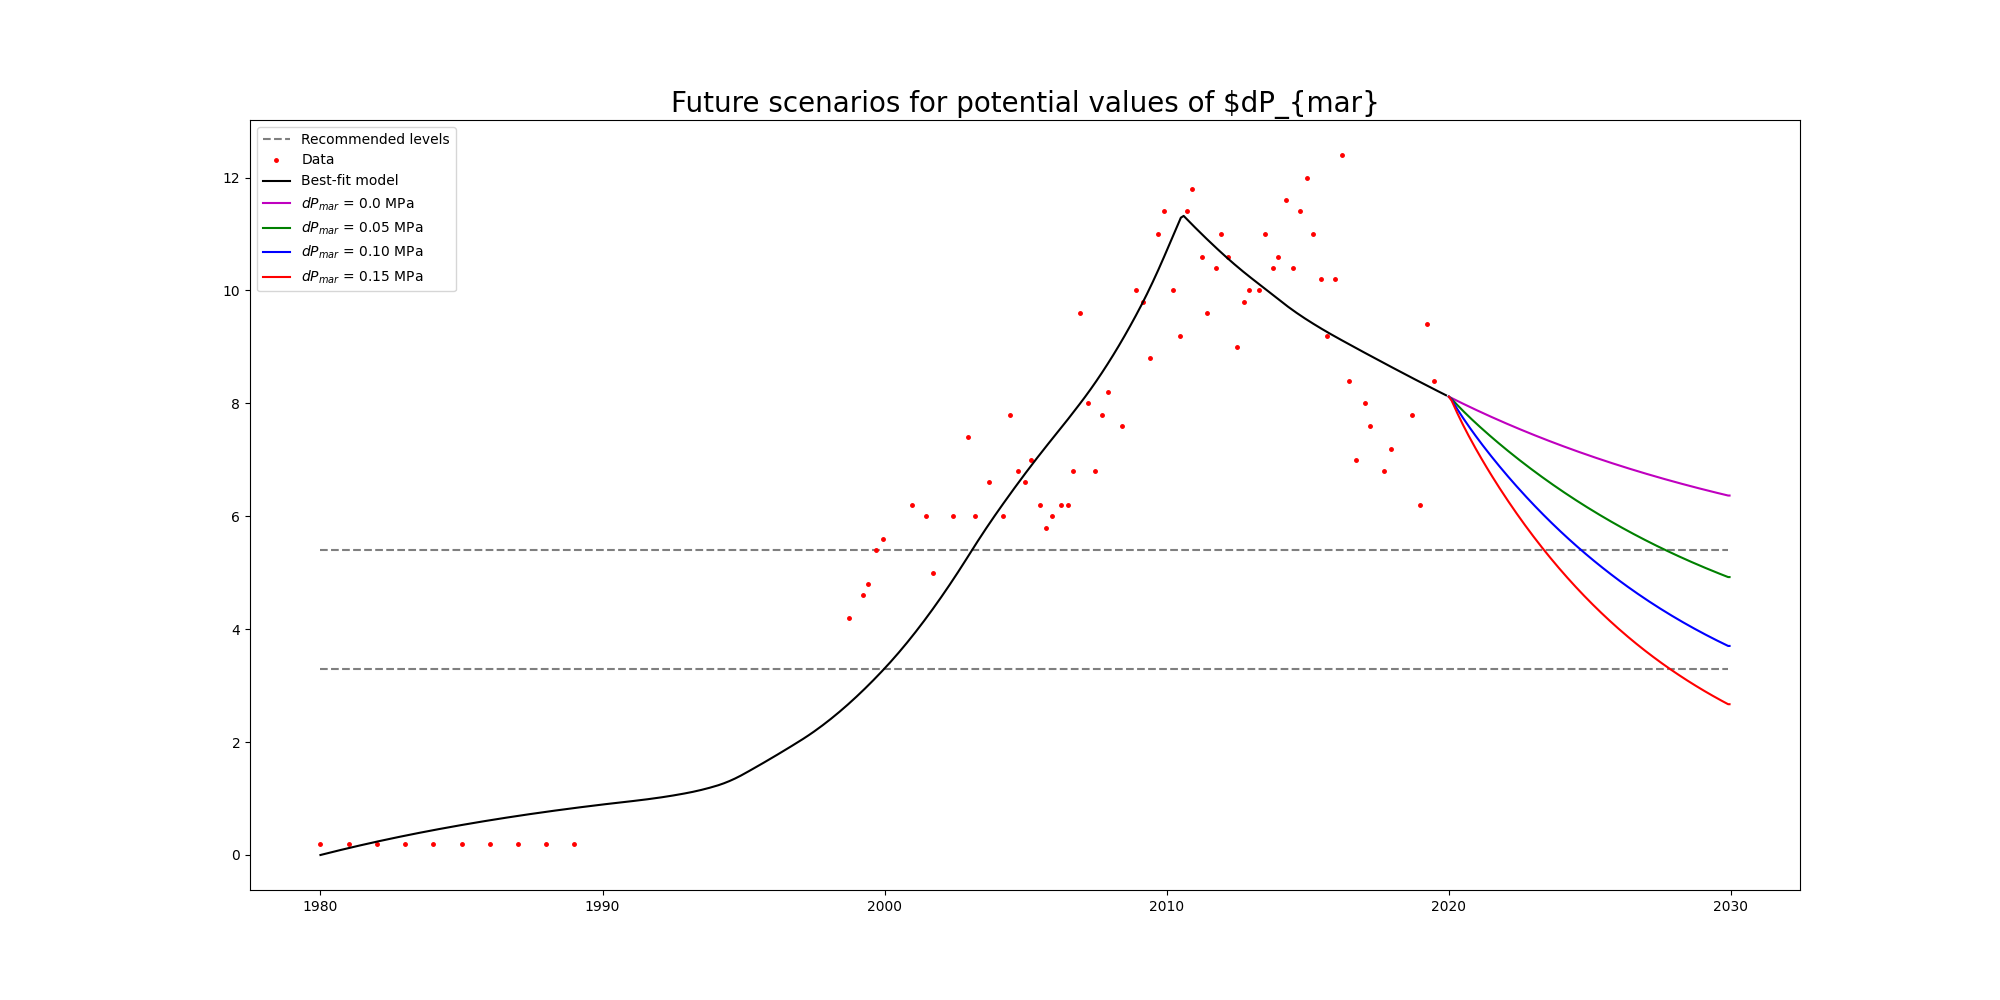
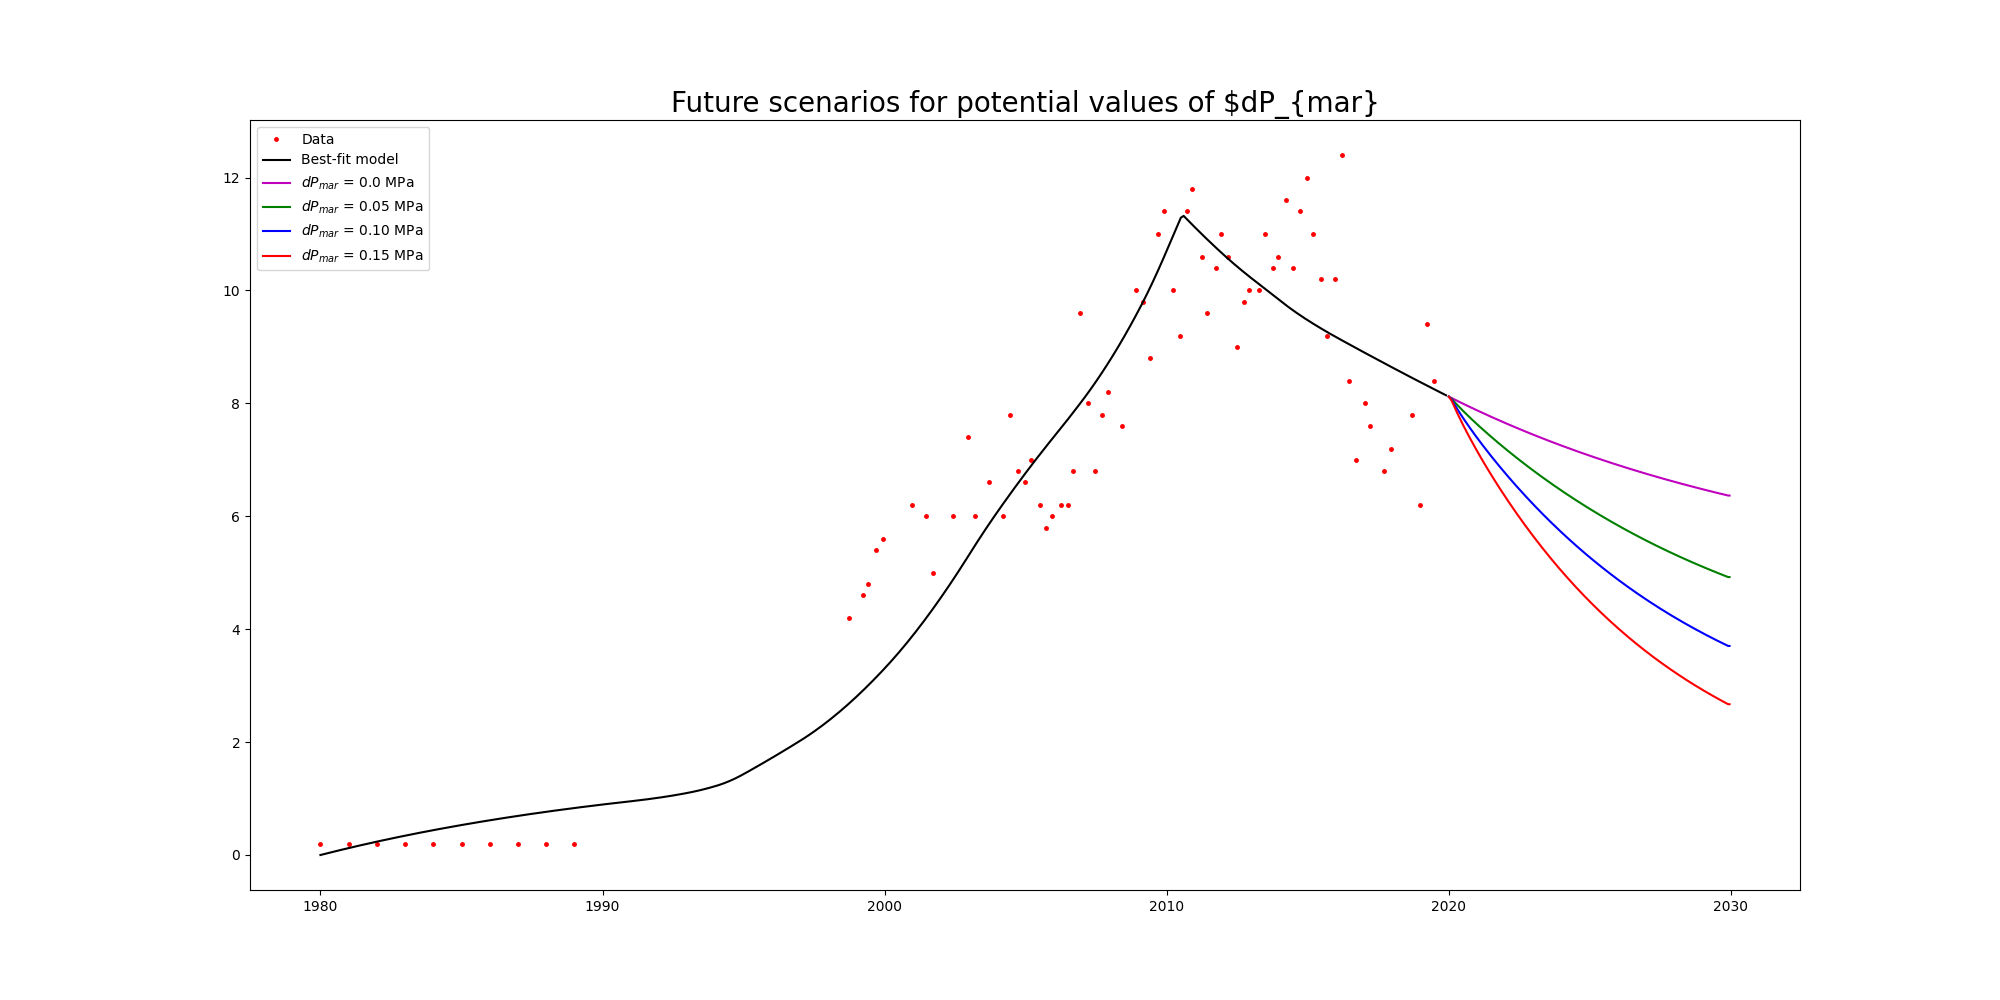
removed recommended levels

Changed region(s): [[0.124, 0.124, 0.217, 0.279]]

diff --git a/plotting_functions.py b/plotting_functions.py
@@ -100,9 +100,6 @@ def what_ifs():
     ------
     Saves the plot in file 'what_if_scenarios.png'
     '''
-    trange = np.arange(1980,2030,step = 0.1)
-    recom_level_lower = [3.3]*len(trange)
-    recom_level_up = [5.4]*len(trange)
     t = np.arange(1980,2020,step = 0.1)
 
     p = posterior_pars()[1]
@@ -117,8 +114,6 @@ def what_ifs():
 
     fig = plt.figure(figsize=(20,10))
     ax = fig.add_subplot(111)
-    ax.plot(trange, recom_level_lower, 'k--', alpha=0.5, label='Recommended levels')
-    ax.plot(trange, recom_level_up, 'k--', alpha=0.5)
     ax.plot(t0,c0, 'ro', label="Data", markersize=2.5)
     # ax.errorbar(t0,c0,yerr=v,fmt='ro', label='data', markersize=2.2)
 
@@ -182,9 +177,6 @@ def what_ifs_uncertainty():
     ------
     Saves the plot in file 'what_if_scenarios.png'
     '''
-    trange = np.arange(1980,2030,step = 0.1)
-    recom_level_lower = [3.3]*len(trange)
-    recom_level_up = [5.4]*len(trange)
 
     t_pos = np.arange(1980,2020.01,step = 0.05)
 
@@ -197,8 +189,6 @@ def what_ifs_uncertainty():
     fig = plt.figure(figsize=(20,10))
     ax = fig.add_subplot(111)
     #ax.plot(t0,c0, 'ro', label="data", markersize=2.5)
-    ax.plot(trange, recom_level_lower, 'k--', alpha=0.5, label='Recommended levels')
-    ax.plot(trange, recom_level_up, 'k--', alpha=0.5)
 
     for pi in range(0,ps.shape[0]):
         ax.plot(t_forecast, LPM_Model_forecast(t_forecast, ps[pi][0], ps[pi][1], ps[pi][2], ps[pi][3],0), 'm-', lw=0.3)
